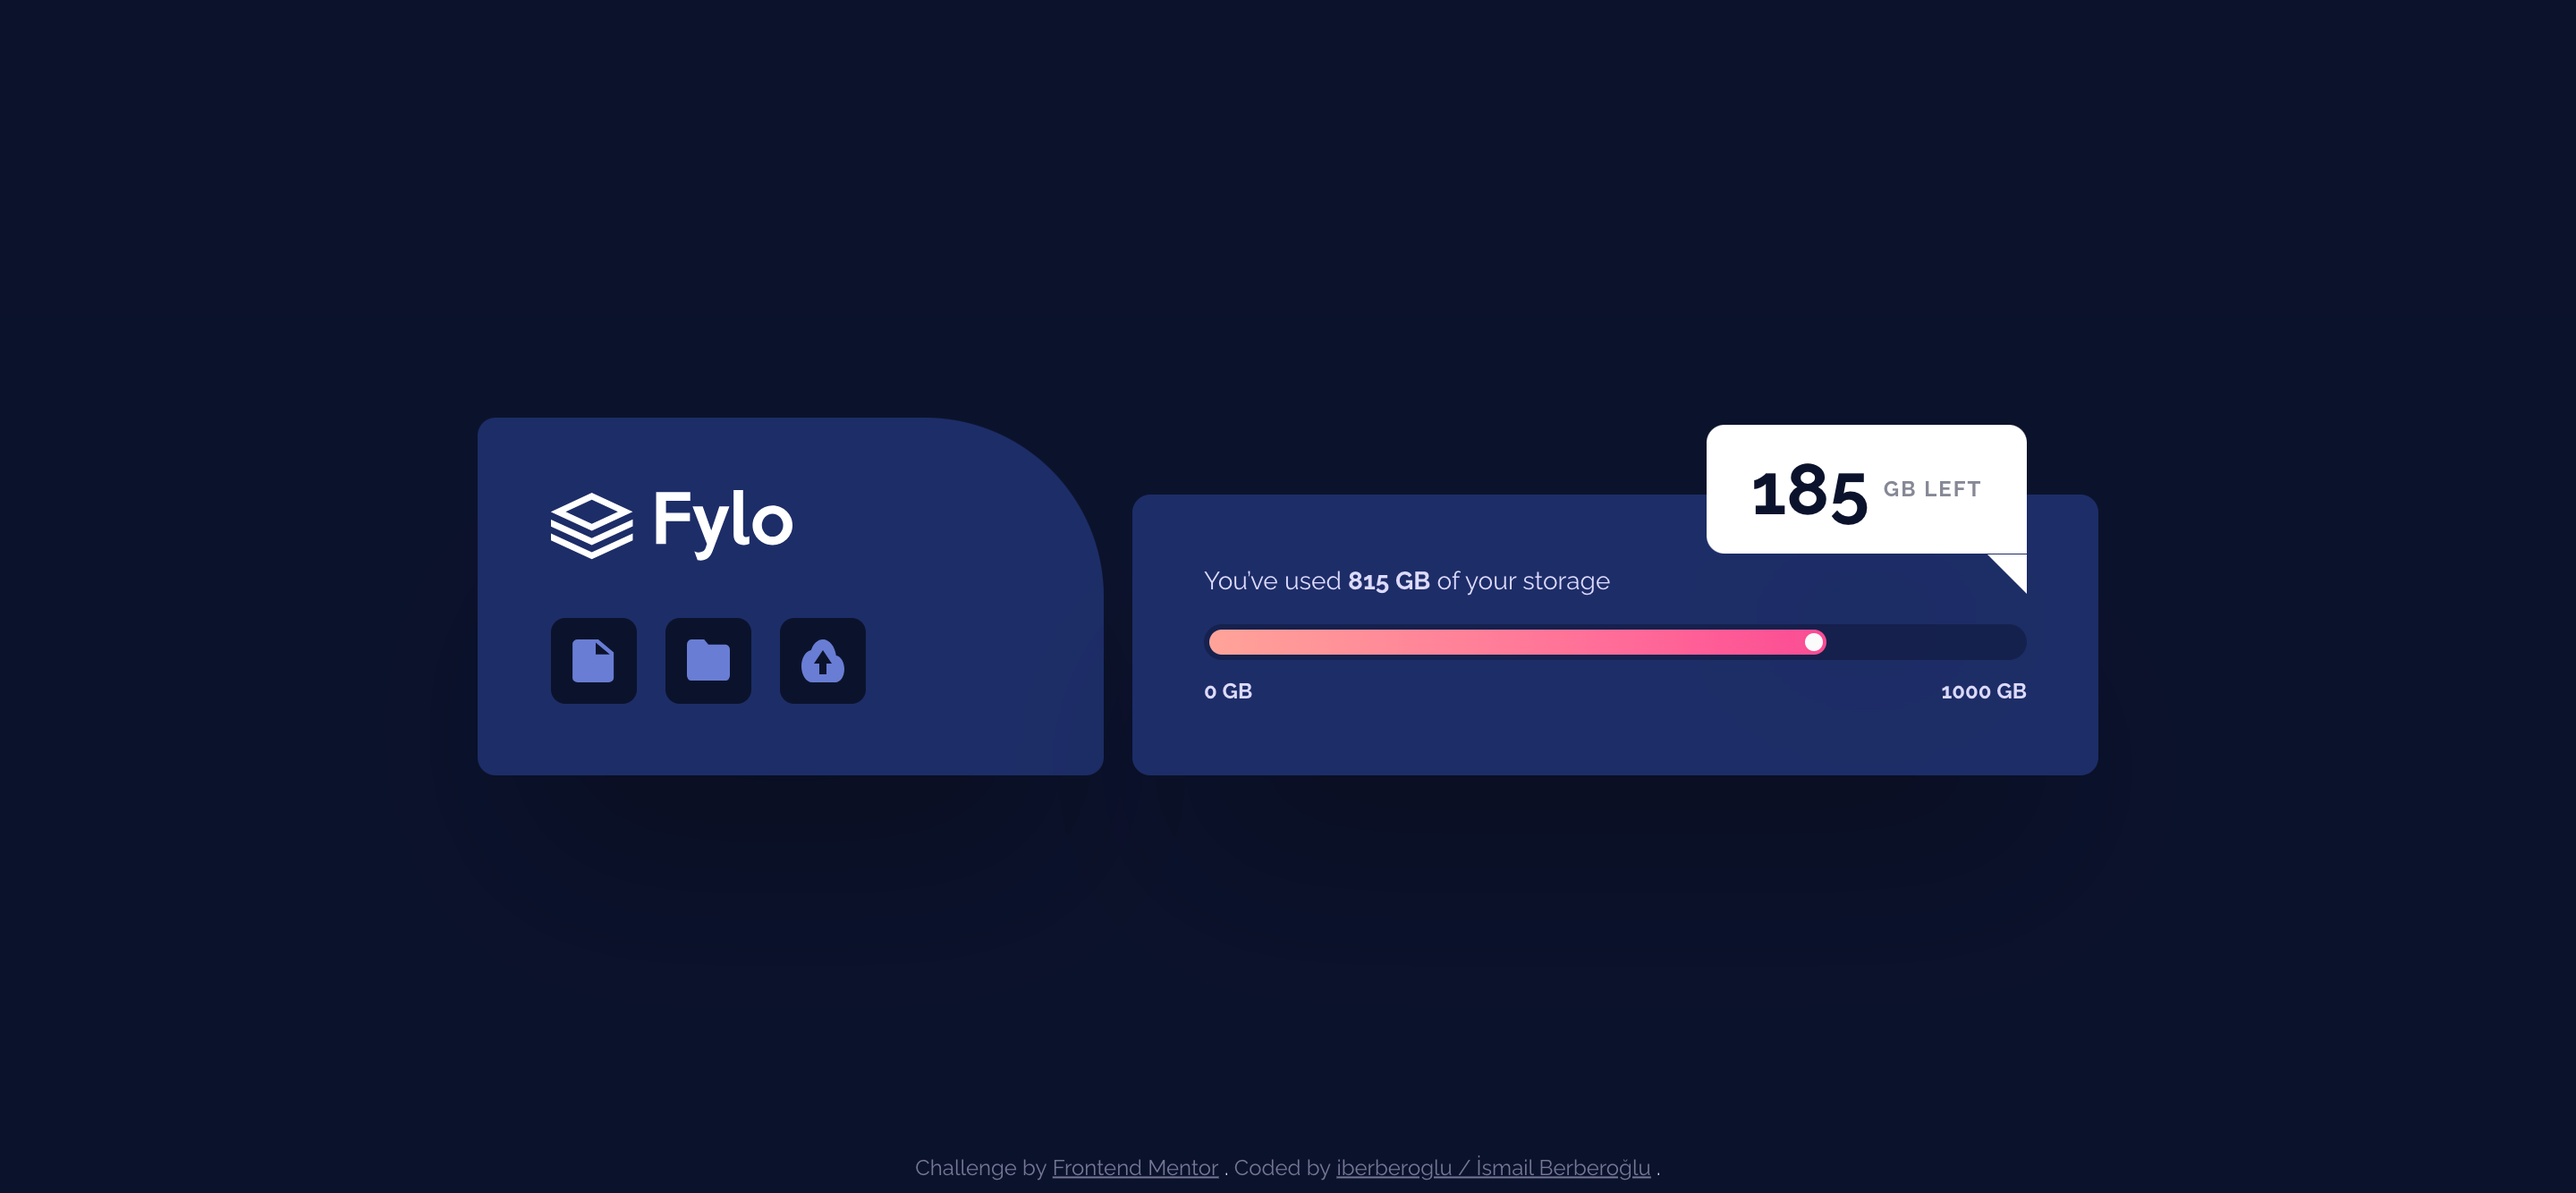
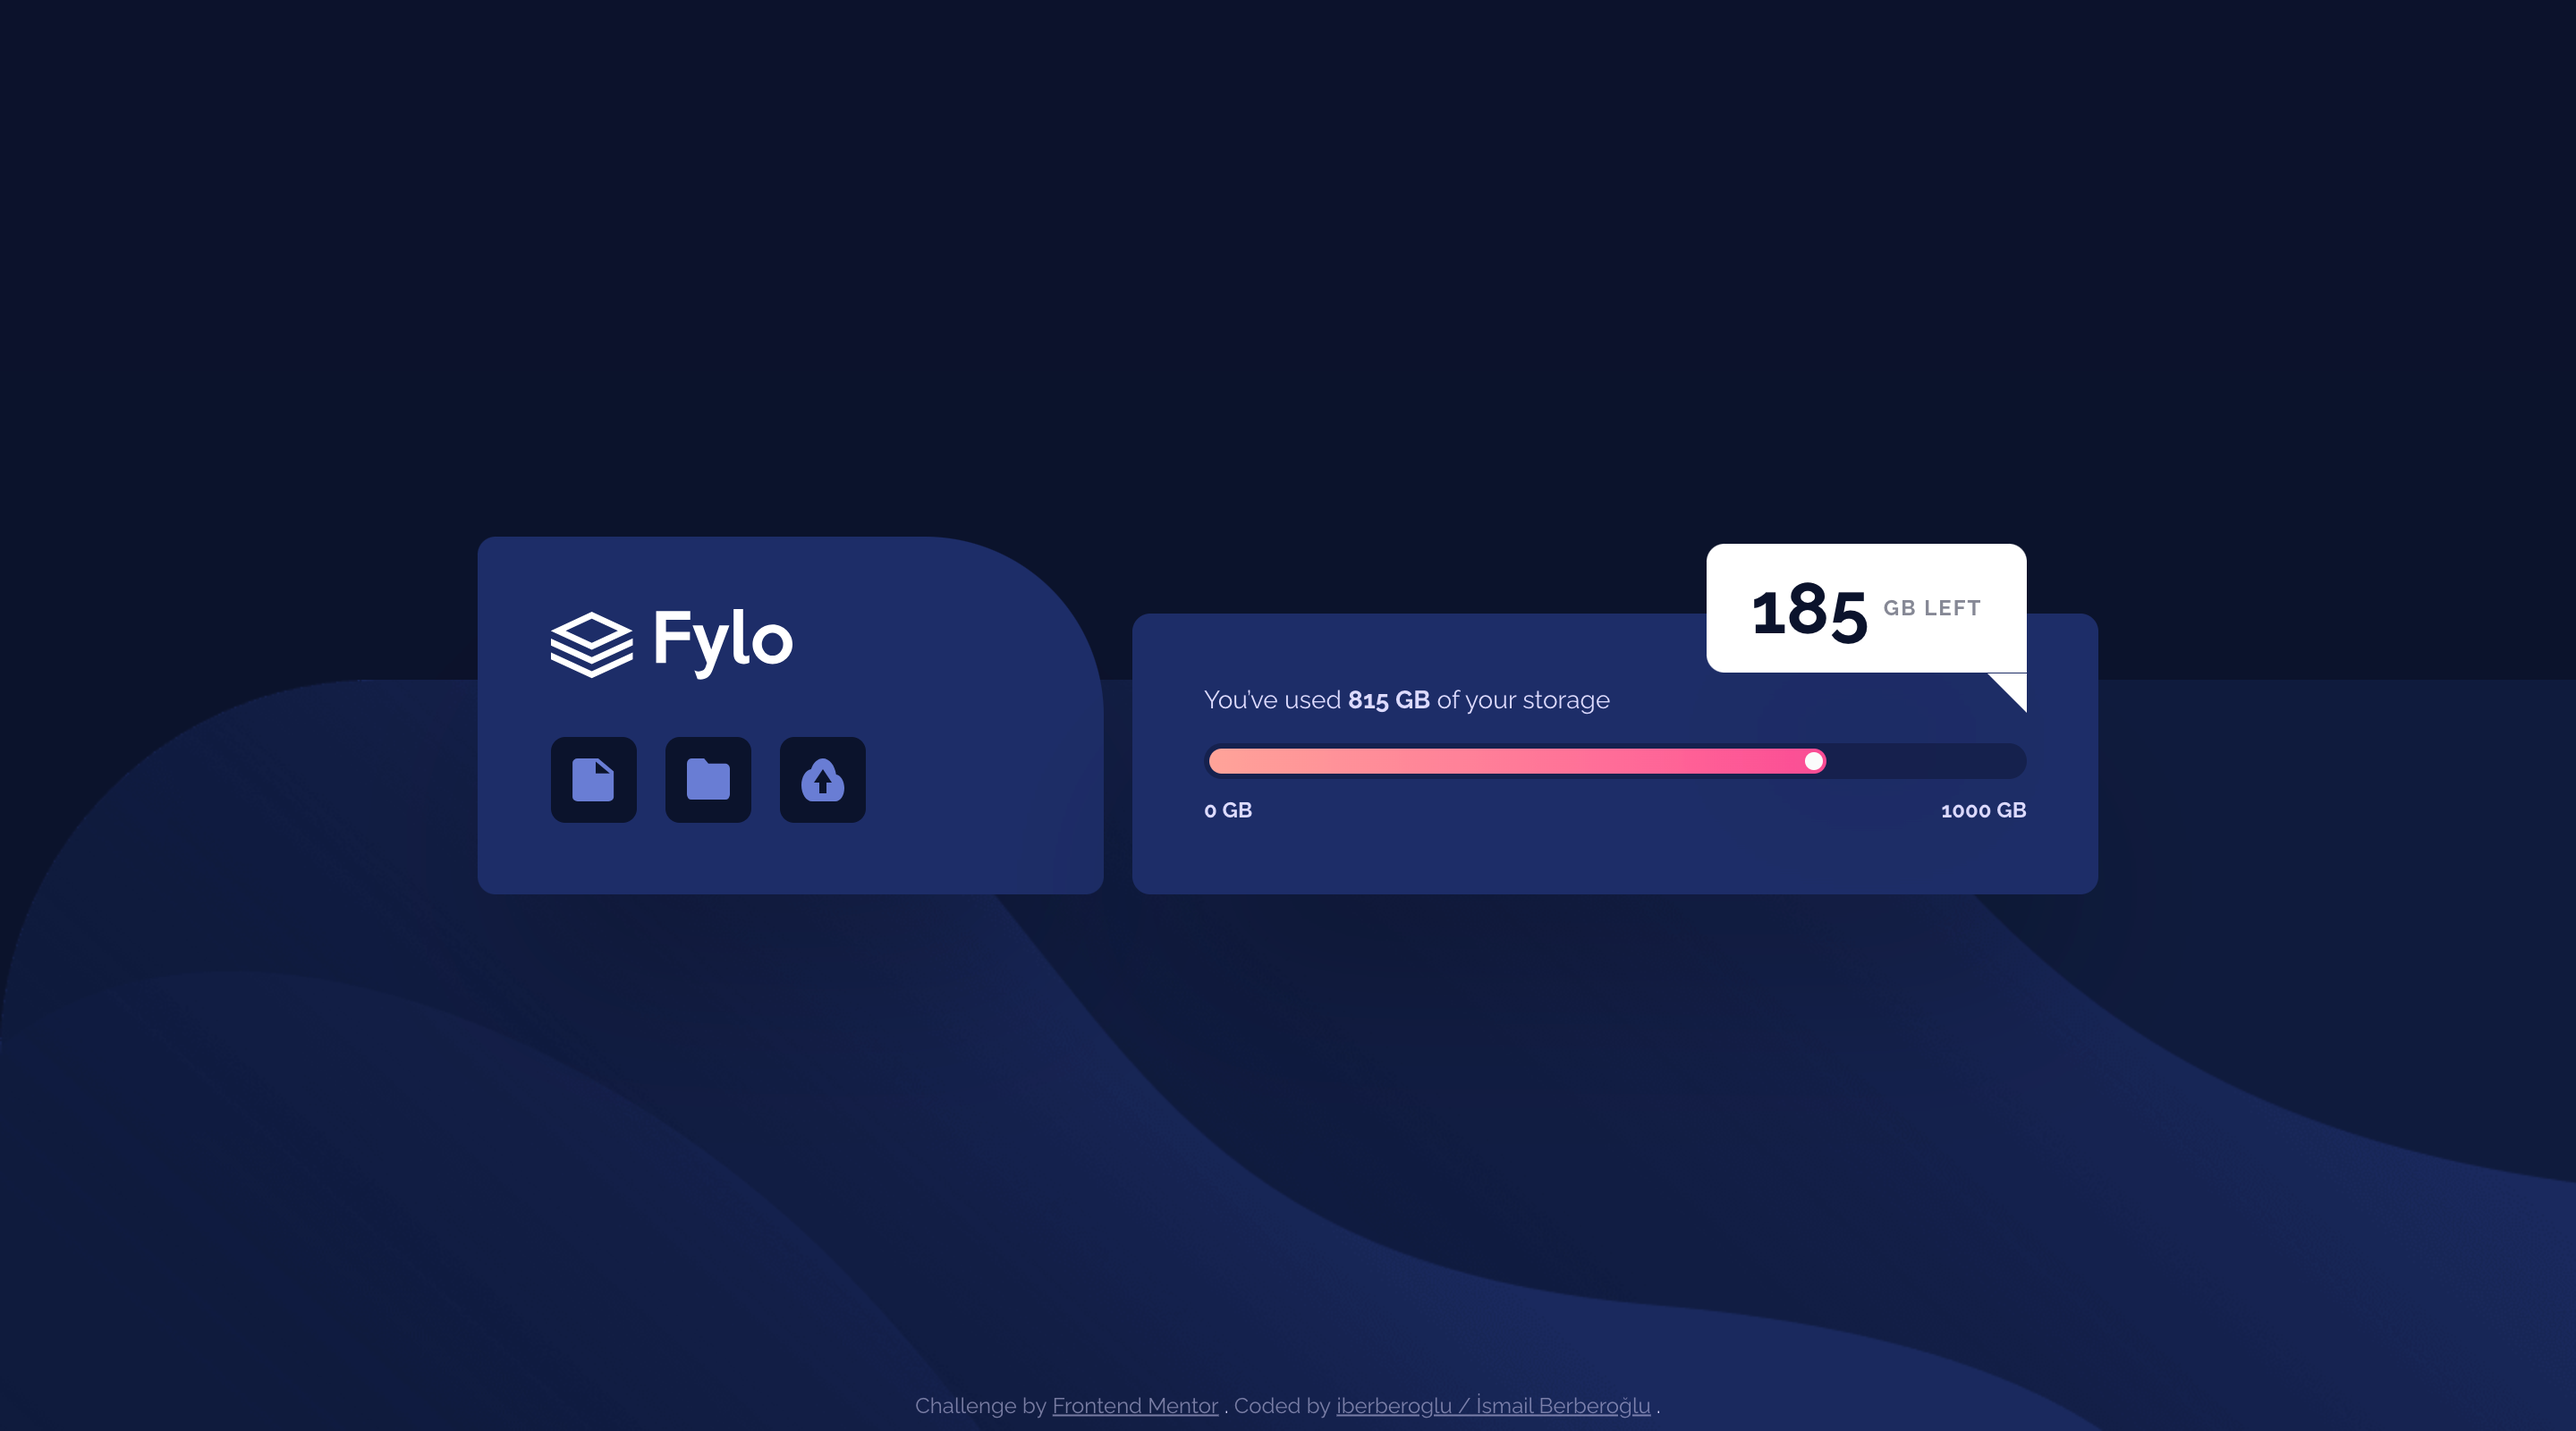
Add background img

diff --git a/fylo-data-storage-component-master/styles/main.css b/fylo-data-storage-component-master/styles/main.css
@@ -14,6 +14,13 @@ body {
   display: flex;
   flex-direction: column;
   justify-content: center;
+  background-image: url(../images/bg-mobile.png);
+  background-repeat: no-repeat;
+  background-size: cover;
+}
+
+.bg-desktop {
+  display: none;
 }
 
 section {
@@ -169,6 +176,18 @@ section {
 }
 
 @media (min-width: 1100px) {
+  body {
+    background-image: none;
+    position: relative;
+  }
+
+  .bg-desktop {
+    display: block;
+    position: absolute;
+    bottom: 0;
+    z-index: -1;
+  }
+
   .main {
     flex-direction: row;
     align-items: end;

diff --git a/fylo-data-storage-component-master/index.html b/fylo-data-storage-component-master/index.html
@@ -26,6 +26,7 @@
     <title>Frontend Mentor | Fylo data storage component</title>
   </head>
   <body>
+    <img src="images/bg-desktop.png" class="bg-desktop" alt="" />
     <main class="main">
       <section class="title-section">
         <h1>
